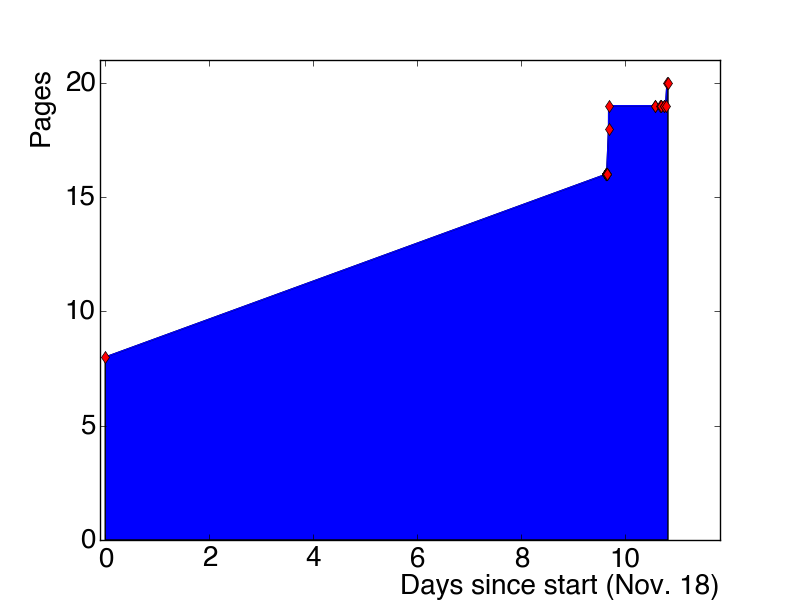
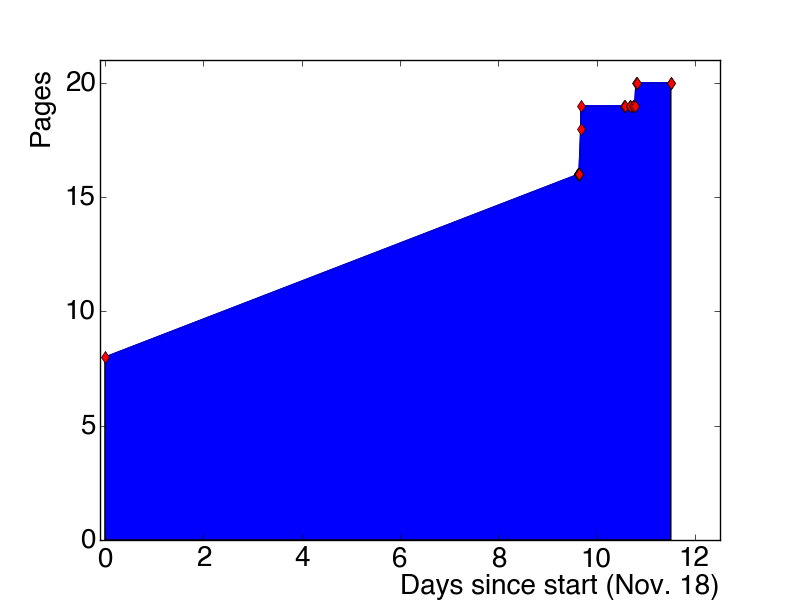
put plot pages in the shell script

diff --git a/pages.md b/pages.md
@@ -24,3 +24,5 @@
 + [2014-11-28-18h36m15s] 19
 + [2014-11-28-19h14m18s] 20
 + [2014-11-28-19h41m01s] 20
++ [2014-11-29-12h11m55s] 20
++ [2014-11-29-12h14m27s] 20
